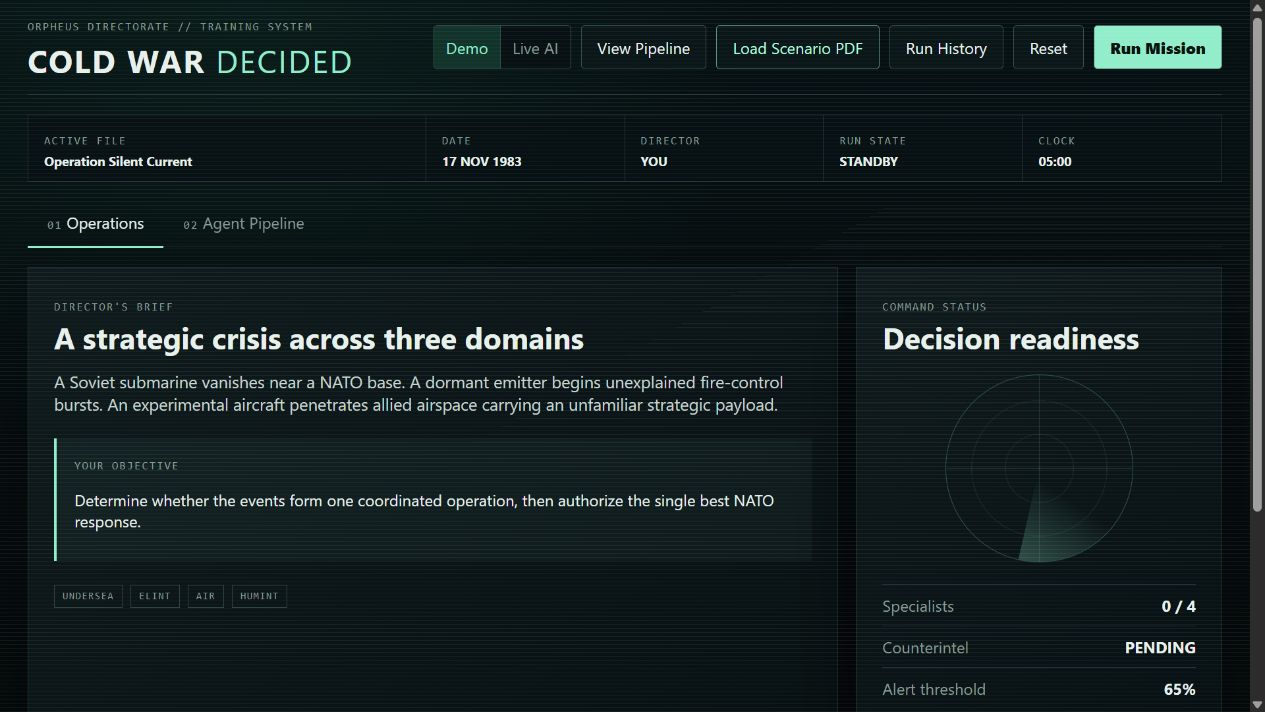
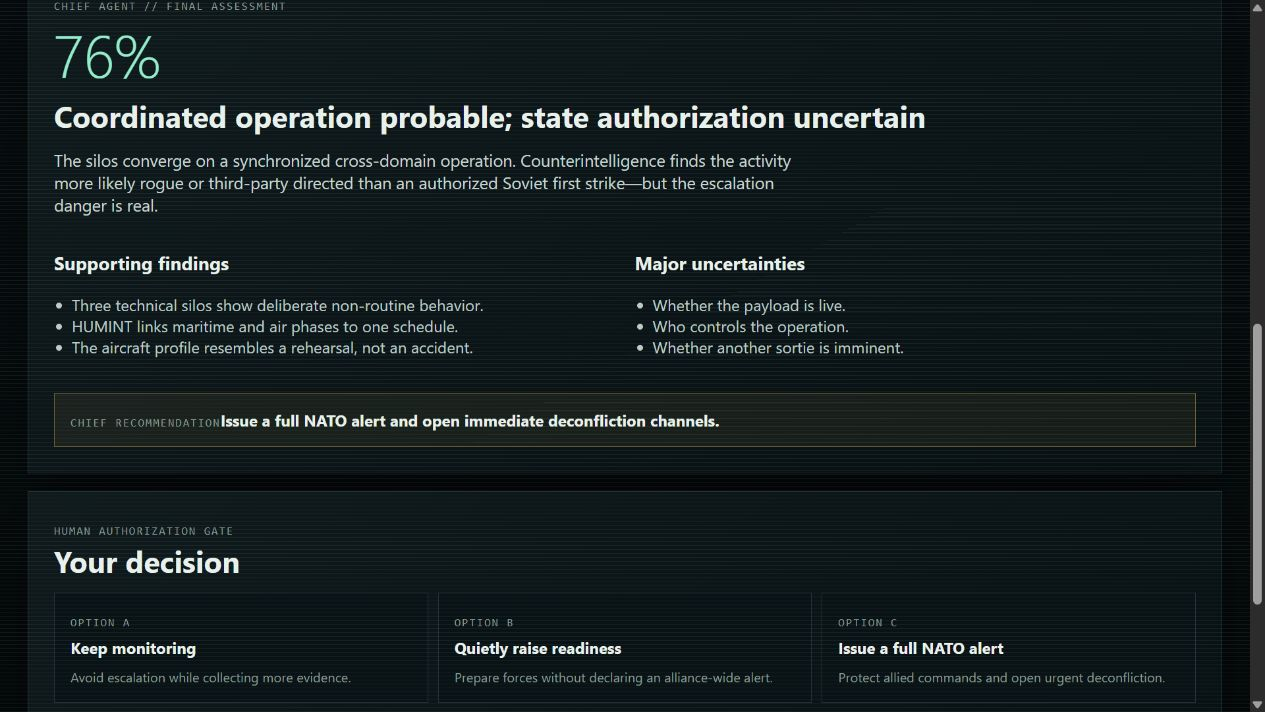
Show agent outcomes in project screenshots

diff --git a/lib/content.ts b/lib/content.ts
@@ -226,11 +226,11 @@ export const agenticProjects: Project[] = [
     images: [
       {
         src: "/projects/cold-war-simulator/command-center.png",
-        alt: "Cold War: Decided command center showing the active scenario and decision-readiness panel",
+        alt: "Cold War: Decided final assessment with confidence, supporting findings, uncertainties, and the Chief's NATO recommendation",
       },
       {
         src: "/projects/cold-war-simulator/agent-pipeline.png",
-        alt: "Cold War: Decided pipeline view showing four evidence-siloed specialist agents",
+        alt: "Completed Cold War: Decided pipeline showing four specialist agents, Chief feedback, counterintelligence review, and final synthesis",
       },
     ],
     nextSteps: [
@@ -256,11 +256,11 @@ export const agenticProjects: Project[] = [
     images: [
       {
         src: "/projects/blackstone-carry/disclosure-review.png",
-        alt: "Blackstone Carry Review six-stage disclosure pipeline",
+        alt: "Completed Blackstone Carry Review showing all six agent stages and the judge's chain-intact verdict",
       },
       {
         src: "/projects/blackstone-carry/carry-calculator.png",
-        alt: "Blackstone Carry Review deterministic carried-interest calculator",
+        alt: "BCP IV modeled carry result with total GP carry, effective carry, and a plain-English AI explanation",
       },
     ],
     nextSteps: [
